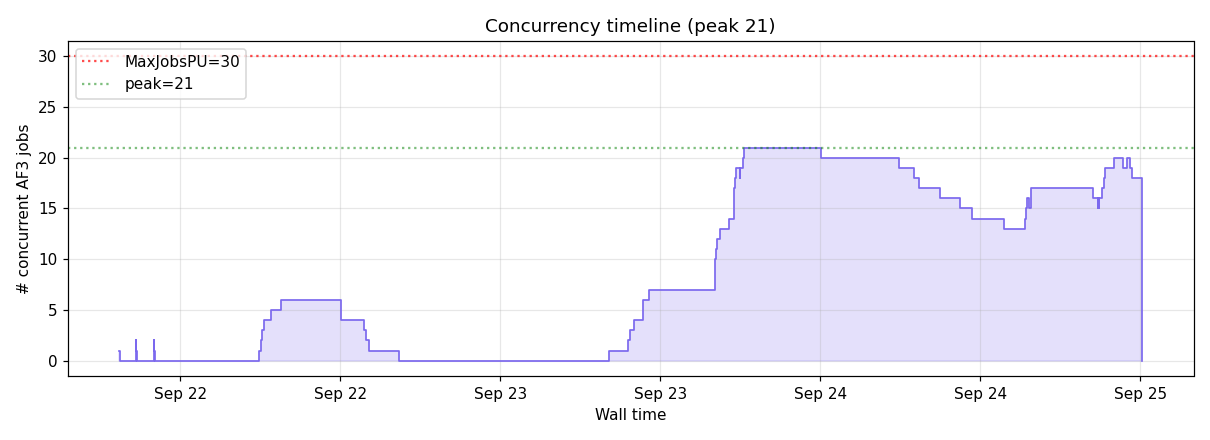
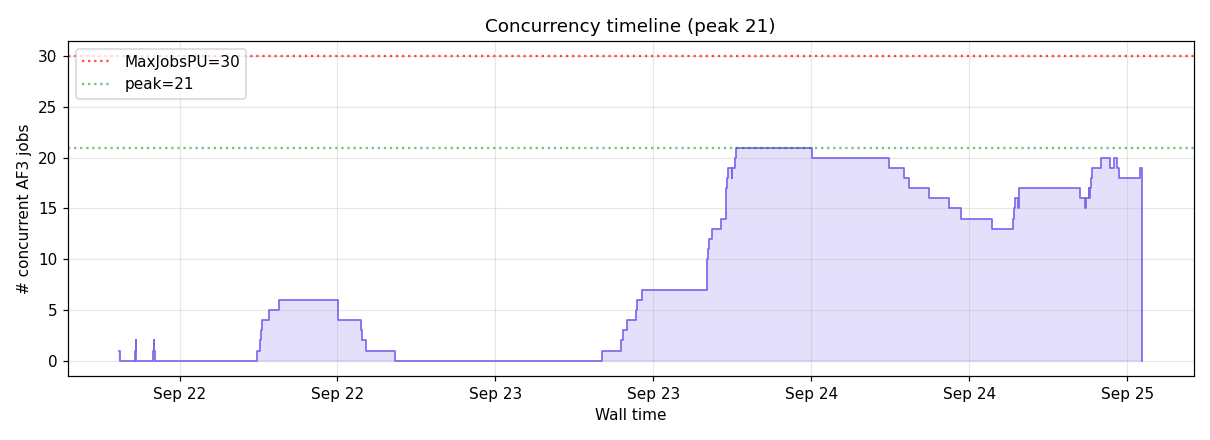
auto: 2026-09-25 01:09:06

diff --git a/index.html b/index.html
@@ -24,29 +24,29 @@ tr:nth-child(even) { background: #fafafa; }
 </style>
 </head><body>
 <h1>AF3 Campaign Dashboard</h1>
-<p class="stamp">Last updated: <strong>2026-09-25 00:08 EDT</strong> · regenerated on the cluster hourly · this page auto-reloads every 30 min</p>
+<p class="stamp">Last updated: <strong>2026-09-25 01:09 EDT</strong> · regenerated on the cluster hourly · this page auto-reloads every 30 min</p>
 
 <div class="cards">
-  <div class="card"><div class="v">1,233</div><div class="l">Total COMPLETED pairs</div></div>
-  <div class="card"><div class="v">152</div><div class="l">Done today</div></div>
-  <div class="card"><div class="v">968</div><div class="l">Last 24 h rate</div></div>
-  <div class="card"><div class="v">18 / 5</div><div class="l">Running / Pending now</div></div>
+  <div class="card"><div class="v">1,261</div><div class="l">Total COMPLETED pairs</div></div>
+  <div class="card"><div class="v">180</div><div class="l">Done today</div></div>
+  <div class="card"><div class="v">955</div><div class="l">Last 24 h rate</div></div>
+  <div class="card"><div class="v">19 / 4</div><div class="l">Running / Pending now</div></div>
 </div>
 
 <h2>Live queue</h2>
 <div class="plots">
   <div>
-    <h3>RUNNING (18)</h3>
+    <h3>RUNNING (19)</h3>
     <div class="queue-table">
       <table><thead><tr><th>Job</th><th>Elapsed</th><th>Left</th><th>Reason / Node</th></tr></thead>
-      <tbody><tr><td>af3_p059_b001</td><td>1:09:03</td><td>1-22:50:57</td><td>alphagpu52</td></tr><tr><td>af3_p058_b002</td><td>2:09:10</td><td>1-21:50:50</td><td>alphagpu51</td></tr><tr><td>af3_p058_b001</td><td>2:46:59</td><td>1-21:13:01</td><td>alphagpu53</td></tr><tr><td>af3_p057_b002</td><td>2:52:35</td><td>1-21:07:25</td><td>alphagpu53</td></tr><tr><td>af3_p057_b001</td><td>2:59:50</td><td>1-21:00:10</td><td>alphagpu53</td></tr><tr><td>af3_p056_b002</td><td>3:03:09</td><td>1-20:56:51</td><td>alphagpu51</td></tr><tr><td>af3_p056_b001</td><td>3:14:31</td><td>1-20:45:29</td><td>alphagpu53</td></tr><tr><td>af3_p055_b002</td><td>3:17:53</td><td>1-20:42:07</td><td>alphagpu54</td></tr><tr><td>af3_p055_b001</td><td>8:20:29</td><td>1-15:39:31</td><td>alphagpu52</td></tr><tr><td>af3_p054_b002</td><td>8:21:37</td><td>1-15:38:23</td><td>alphagpu51</td></tr><tr><td>af3_p054_b001</td><td>8:37:24</td><td>1-15:22:36</td><td>alphagpu52</td></tr><tr><td>af3_p053_b002</td><td>8:44:19</td><td>1-15:15:41</td><td>alphagpu54</td></tr><tr><td>af3_p053_b001</td><td>8:47:07</td><td>1-15:12:53</td><td>alphagpu53</td></tr><tr><td>af3_p049_b001</td><td>1-06:38:07</td><td>17:21:53</td><td>alphagpu52</td></tr><tr><td>af3_p048_b001</td><td>1-07:40:58</td><td>16:19:02</td><td>alphagpu51</td></tr><tr><td>af3_p047_b001</td><td>1-07:57:49</td><td>16:02:11</td><td>alphagpu54</td></tr><tr><td>af3_p052_b001</td><td>1-05:58:26</td><td>18:01:34</td><td>alphagpu54</td></tr><tr><td>af3_p051_b001</td><td>1-06:30:15</td><td>17:29:45</td><td>alphagpu54</td></tr></tbody></table>
+      <tbody><tr><td>af3_p059_b002</td><td>11:28</td><td>1-23:48:32</td><td>alphagpu52</td></tr><tr><td>af3_p059_b001</td><td>2:09:39</td><td>1-21:50:21</td><td>alphagpu52</td></tr><tr><td>af3_p058_b002</td><td>3:09:46</td><td>1-20:50:14</td><td>alphagpu51</td></tr><tr><td>af3_p058_b001</td><td>3:47:35</td><td>1-20:12:25</td><td>alphagpu53</td></tr><tr><td>af3_p057_b002</td><td>3:53:11</td><td>1-20:06:49</td><td>alphagpu53</td></tr><tr><td>af3_p057_b001</td><td>4:00:26</td><td>1-19:59:34</td><td>alphagpu53</td></tr><tr><td>af3_p056_b002</td><td>4:03:45</td><td>1-19:56:15</td><td>alphagpu51</td></tr><tr><td>af3_p056_b001</td><td>4:15:07</td><td>1-19:44:53</td><td>alphagpu53</td></tr><tr><td>af3_p055_b002</td><td>4:18:29</td><td>1-19:41:31</td><td>alphagpu54</td></tr><tr><td>af3_p055_b001</td><td>9:21:05</td><td>1-14:38:55</td><td>alphagpu52</td></tr><tr><td>af3_p054_b002</td><td>9:22:13</td><td>1-14:37:47</td><td>alphagpu51</td></tr><tr><td>af3_p054_b001</td><td>9:38:00</td><td>1-14:22:00</td><td>alphagpu52</td></tr><tr><td>af3_p053_b002</td><td>9:44:55</td><td>1-14:15:05</td><td>alphagpu54</td></tr><tr><td>af3_p053_b001</td><td>9:47:43</td><td>1-14:12:17</td><td>alphagpu53</td></tr><tr><td>af3_p049_b001</td><td>1-07:38:43</td><td>16:21:17</td><td>alphagpu52</td></tr><tr><td>af3_p048_b001</td><td>1-08:41:34</td><td>15:18:26</td><td>alphagpu51</td></tr><tr><td>af3_p047_b001</td><td>1-08:58:25</td><td>15:01:35</td><td>alphagpu54</td></tr><tr><td>af3_p052_b001</td><td>1-06:59:02</td><td>17:00:58</td><td>alphagpu54</td></tr><tr><td>af3_p051_b001</td><td>1-07:30:51</td><td>16:29:09</td><td>alphagpu54</td></tr></tbody></table>
     </div>
   </div>
   <div>
-    <h3>PENDING (5)</h3>
+    <h3>PENDING (4)</h3>
     <div class="queue-table">
       <table><thead><tr><th>Job</th><th>Wait</th><th>Limit</th><th>Reason</th></tr></thead>
-      <tbody><tr><td>af3_p061_b002</td><td>0:00</td><td>2-00:00:00</td><td>(Priority)</td></tr><tr><td>af3_p061_b001</td><td>0:00</td><td>2-00:00:00</td><td>(Priority)</td></tr><tr><td>af3_p060_b002</td><td>0:00</td><td>2-00:00:00</td><td>(Priority)</td></tr><tr><td>af3_p060_b001</td><td>0:00</td><td>2-00:00:00</td><td>(Priority)</td></tr><tr><td>af3_p059_b002</td><td>0:00</td><td>2-00:00:00</td><td>(Priority)</td></tr></tbody></table>
+      <tbody><tr><td>af3_p061_b002</td><td>0:00</td><td>2-00:00:00</td><td>(Priority)</td></tr><tr><td>af3_p061_b001</td><td>0:00</td><td>2-00:00:00</td><td>(Priority)</td></tr><tr><td>af3_p060_b002</td><td>0:00</td><td>2-00:00:00</td><td>(Priority)</td></tr><tr><td>af3_p060_b001</td><td>0:00</td><td>2-00:00:00</td><td>(Priority)</td></tr></tbody></table>
     </div>
   </div>
 </div>
@@ -62,7 +62,7 @@ tr:nth-child(even) { background: #fafafa; }
 </div>
 
 <h2>All-time job state breakdown</h2>
-<table><thead><tr><th>State</th><th>Count</th></tr></thead><tbody><tr><td>COMPLETED</td><td>23</td></tr><tr><td>RUNNING</td><td>18</td></tr><tr><td>PENDING</td><td>5</td></tr></tbody></table>
+<table><thead><tr><th>State</th><th>Count</th></tr></thead><tbody><tr><td>COMPLETED</td><td>23</td></tr><tr><td>RUNNING</td><td>19</td></tr><tr><td>PENDING</td><td>4</td></tr></tbody></table>
 
 <p class="stamp"><small>Generated by <code>generate.py</code> on the SUNY HPC cluster.
 Source / regeneration policy at <a href="https://github.com/matvei-lukianov/af3-dashboard">github.com/matvei-lukianov/af3-dashboard</a></small></p>
